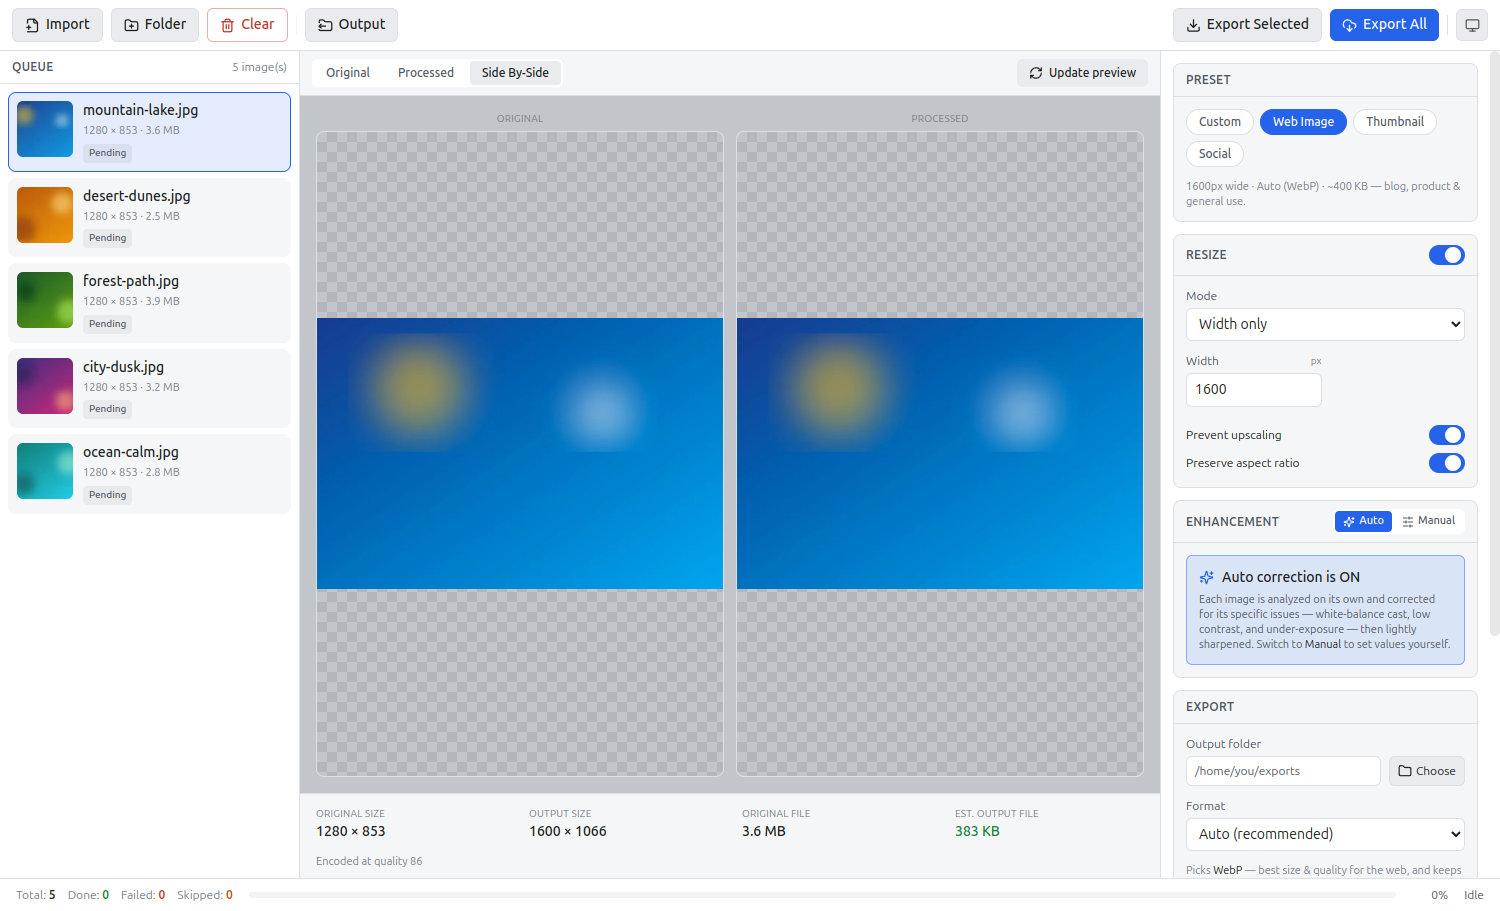
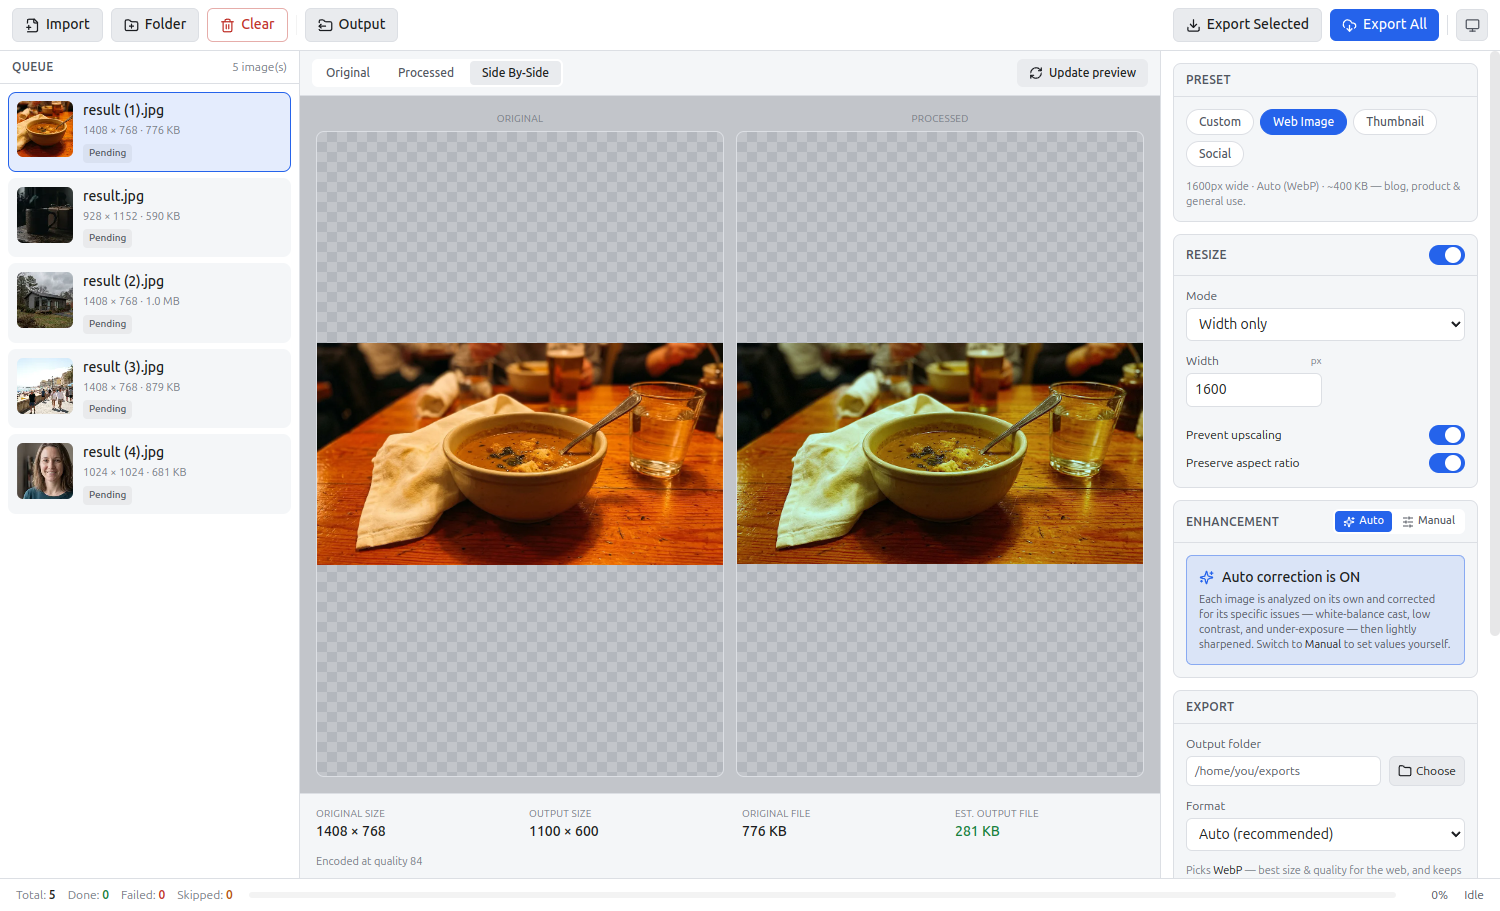
docs(site): real-photo screenshots + auto-enhance before/after; OS-detected primary download (no 'recommended'); clearer Apple Silicon/Intel; promoted unsigned-app notice; better Tux penguin

diff --git a/docs/index.html b/docs/index.html
@@ -457,23 +457,34 @@
         gap: 12px;
         transition: border-color 0.18s ease;
       }
-      .dl-card.rec {
-        border-color: rgba(59, 122, 240, 0.55);
-        box-shadow: 0 0 0 1px rgba(59, 122, 240, 0.25);
+      .dl-card.sel {
+        border-color: var(--accent);
+        box-shadow: 0 0 0 1px var(--accent);
       }
       .dl-card .os {
         color: var(--fg);
+        height: 34px;
+        display: grid;
+        place-items: center;
       }
       .dl-card h3 {
-        font-size: 17px;
+        font-size: 18px;
         font-family: 'Hanken Grotesk', sans-serif;
         font-weight: 700;
+      }
+      .dl-card .variant {
+        font-size: 13px;
+        font-weight: 700;
+        color: var(--fg);
+        background: var(--panel-2);
+        border: 1px solid var(--line);
+        padding: 3px 11px;
+        border-radius: 100px;
       }
       .dl-card .file {
         font-size: 12px;
         color: var(--subtle);
-        word-break: break-all;
-        min-height: 30px;
+        min-height: 16px;
       }
       .dl-card a.dlbtn {
         margin-top: auto;
@@ -482,24 +493,113 @@
         font-size: 15px;
         padding: 11px 16px;
       }
-      .rec-tag {
+
+      /* Before / after */
+      .ba-list {
+        display: flex;
+        flex-direction: column;
+        gap: 20px;
+      }
+      .ba {
+        margin: 0;
+        border: 1px solid var(--line);
+        border-radius: var(--radius);
+        overflow: hidden;
+        background: var(--panel);
+      }
+      .ba-pair {
+        display: grid;
+        grid-template-columns: 1fr 1fr;
+        gap: 2px;
+        background: var(--line);
+      }
+      .ba-item {
+        position: relative;
+        background: var(--panel-2);
+      }
+      .ba-item img {
+        width: 100%;
+        aspect-ratio: 16 / 10;
+        object-fit: cover;
+        display: block;
+      }
+      .ba-tag {
+        position: absolute;
+        top: 10px;
+        left: 10px;
         font-size: 11px;
         font-weight: 700;
         letter-spacing: 0.05em;
         text-transform: uppercase;
-        color: var(--accent);
+        background: rgba(0, 0, 0, 0.62);
+        color: #fff;
+        padding: 4px 9px;
+        border-radius: 6px;
       }
-      .dl-note {
+      .ba-tag.is-after {
+        background: var(--accent);
+      }
+      .ba figcaption {
+        padding: 13px 18px;
+        color: var(--muted);
+        font-size: 14px;
+      }
+      @media (max-width: 560px) {
+        .ba-pair {
+          grid-template-columns: 1fr;
+        }
+        .ba-item img {
+          aspect-ratio: 16 / 9;
+        }
+      }
+
+      /* Unsigned-app notice (promoted) */
+      .notice {
+        display: flex;
+        gap: 16px;
+        margin-top: 30px;
+        padding: 22px 24px;
+        background: var(--panel);
+        border: 1px solid var(--line);
+        border-left: 4px solid #e0a13a;
+        border-radius: var(--radius);
+      }
+      .notice-ic {
+        flex-shrink: 0;
+        color: #e0a13a;
+      }
+      .notice h3 {
+        font-size: 17px;
+        font-family: 'Hanken Grotesk', sans-serif;
+        font-weight: 700;
+      }
+      .notice p {
+        color: var(--muted);
+        font-size: 15px;
+        margin: 6px 0 12px;
+      }
+      .notice ul {
+        margin: 0;
+        padding-left: 18px;
+        color: var(--muted);
+        font-size: 14.5px;
+        line-height: 1.7;
+      }
+      .notice ul b {
+        color: var(--fg);
+      }
+      .notice code {
+        background: var(--panel-2);
+        border: 1px solid var(--line-2);
+        padding: 1px 6px;
+        border-radius: 5px;
+        font-size: 13px;
+      }
+      .dl-foot {
         text-align: center;
         color: var(--subtle);
         font-size: 14px;
-        margin-top: 26px;
-      }
-      .dl-note code {
-        background: var(--panel-2);
-        padding: 2px 7px;
-        border-radius: 6px;
-        font-size: 13px;
+        margin-top: 20px;
       }
 
       /* Footer */
@@ -683,8 +783,45 @@
         </div>
       </section>
 
+      <!-- BEFORE / AFTER -->
+      <section id="examples">
+        <div class="wrap">
+          <div class="sec-head reveal">
+            <span class="kicker">Real results</span>
+            <h2>Auto-enhance, image by image</h2>
+            <p>
+              ImagePrep analyzes each photo and corrects its own flaws — white balance, contrast,
+              and exposure. Left is the original; right is ImagePrep's automatic output.
+            </p>
+          </div>
+          <div class="ba-list">
+            <figure class="ba reveal">
+              <div class="ba-pair">
+                <div class="ba-item"><span class="ba-tag">Before</span><img src="assets/ba-1-before.webp" alt="Original photo with a warm cast" loading="lazy" /></div>
+                <div class="ba-item"><span class="ba-tag is-after">After</span><img src="assets/ba-1-after.webp" alt="ImagePrep auto-enhanced" loading="lazy" /></div>
+              </div>
+              <figcaption>Warm tungsten cast neutralized, with contrast and detail recovered.</figcaption>
+            </figure>
+            <figure class="ba reveal">
+              <div class="ba-pair">
+                <div class="ba-item"><span class="ba-tag">Before</span><img src="assets/ba-2-before.webp" alt="Dark original photo" loading="lazy" /></div>
+                <div class="ba-item"><span class="ba-tag is-after">After</span><img src="assets/ba-2-after.webp" alt="ImagePrep auto-enhanced" loading="lazy" /></div>
+              </div>
+              <figcaption>Under-exposed shot brightened and balanced — shadows opened up.</figcaption>
+            </figure>
+            <figure class="ba reveal">
+              <div class="ba-pair">
+                <div class="ba-item"><span class="ba-tag">Before</span><img src="assets/ba-3-before.webp" alt="Flat original photo" loading="lazy" /></div>
+                <div class="ba-item"><span class="ba-tag is-after">After</span><img src="assets/ba-3-after.webp" alt="ImagePrep auto-enhanced" loading="lazy" /></div>
+              </div>
+              <figcaption>Flat lighting gets cleaner contrast and truer colour.</figcaption>
+            </figure>
+          </div>
+        </div>
+      </section>
+
       <!-- SHOWCASE -->
-      <section>
+      <section style="background: var(--bg-2)">
         <div class="wrap">
           <div class="sec-head reveal">
             <span class="kicker">Looks great, day or night</span>
@@ -705,48 +842,74 @@
       </section>
 
       <!-- DOWNLOAD -->
-      <section id="download" style="background: var(--bg-2)">
+      <section id="download">
         <div class="wrap">
           <div class="sec-head reveal">
             <span class="kicker">Get the app</span>
             <h2>Download <span id="dl-version"></span></h2>
-            <p>Free and open source. Pick your platform — installers are built automatically for every release.</p>
+            <p>Free and open source. Installers are built automatically for every release.</p>
           </div>
           <div class="dl reveal">
             <div class="dl-card" data-os="windows">
-              <span class="rec-tag" style="visibility: hidden">Recommended</span>
               <div class="os"><svg width="30" height="30" viewBox="0 0 24 24" fill="currentColor"><path d="M3 5.5L10.5 4.4v7.1H3V5.5zM3 18.5V12.5h7.5v7.1L3 18.5zM11.5 4.2L21 3v8.5h-9.5V4.2zM11.5 12.5H21V21l-9.5-1.3v-7.2z"/></svg></div>
               <h3>Windows</h3>
-              <div class="file" data-file>NSIS installer (x64)</div>
-              <a class="btn btn-primary dlbtn" data-dl="win" href="https://github.com/gediminasurvila/image-prep-electron/releases/latest">Download .exe</a>
+              <span class="variant">10 / 11 · 64-bit</span>
+              <div class="file">.exe installer</div>
+              <a class="btn btn-ghost dlbtn" data-dl="win" href="https://github.com/gediminasurvila/image-prep-electron/releases/latest">Download</a>
             </div>
             <div class="dl-card" data-os="mac-arm">
-              <span class="rec-tag" style="visibility: hidden">Recommended</span>
               <div class="os"><svg width="30" height="30" viewBox="0 0 24 24" fill="currentColor"><path d="M16.4 12.7c0-2.3 1.9-3.4 2-3.5-1.1-1.6-2.8-1.8-3.4-1.8-1.5-.15-2.8.85-3.5.85-.72 0-1.83-.83-3-.81-1.55.02-2.98.9-3.78 2.29-1.6 2.78-.41 6.9 1.15 9.16.76 1.1 1.67 2.34 2.86 2.3 1.15-.05 1.58-.74 2.97-.74 1.38 0 1.77.74 2.98.72 1.23-.02 2.01-1.12 2.76-2.23.87-1.28 1.23-2.52 1.25-2.58-.03-.01-2.4-.92-2.42-3.63zM14.1 5.6c.64-.78 1.07-1.85.95-2.93-.92.04-2.04.61-2.7 1.39-.59.69-1.11 1.79-.97 2.84 1.03.08 2.08-.52 2.72-1.3z"/></svg></div>
               <h3>macOS</h3>
-              <div class="file" data-file>Apple Silicon (.dmg)</div>
-              <a class="btn btn-primary dlbtn" data-dl="mac-arm" href="https://github.com/gediminasurvila/image-prep-electron/releases/latest">Download arm64</a>
+              <span class="variant">Apple Silicon</span>
+              <div class="file">M1 – M4 · .dmg</div>
+              <a class="btn btn-ghost dlbtn" data-dl="mac-arm" href="https://github.com/gediminasurvila/image-prep-electron/releases/latest">Download</a>
             </div>
             <div class="dl-card" data-os="mac-intel">
-              <span class="rec-tag" style="visibility: hidden">Recommended</span>
               <div class="os"><svg width="30" height="30" viewBox="0 0 24 24" fill="currentColor"><path d="M16.4 12.7c0-2.3 1.9-3.4 2-3.5-1.1-1.6-2.8-1.8-3.4-1.8-1.5-.15-2.8.85-3.5.85-.72 0-1.83-.83-3-.81-1.55.02-2.98.9-3.78 2.29-1.6 2.78-.41 6.9 1.15 9.16.76 1.1 1.67 2.34 2.86 2.3 1.15-.05 1.58-.74 2.97-.74 1.38 0 1.77.74 2.98.72 1.23-.02 2.01-1.12 2.76-2.23.87-1.28 1.23-2.52 1.25-2.58-.03-.01-2.4-.92-2.42-3.63zM14.1 5.6c.64-.78 1.07-1.85.95-2.93-.92.04-2.04.61-2.7 1.39-.59.69-1.11 1.79-.97 2.84 1.03.08 2.08-.52 2.72-1.3z"/></svg></div>
               <h3>macOS</h3>
-              <div class="file" data-file>Intel (.dmg)</div>
-              <a class="btn btn-primary dlbtn" data-dl="mac-intel" href="https://github.com/gediminasurvila/image-prep-electron/releases/latest">Download x64</a>
+              <span class="variant">Intel</span>
+              <div class="file">2020 &amp; earlier · .dmg</div>
+              <a class="btn btn-ghost dlbtn" data-dl="mac-intel" href="https://github.com/gediminasurvila/image-prep-electron/releases/latest">Download</a>
             </div>
             <div class="dl-card" data-os="linux">
-              <span class="rec-tag" style="visibility: hidden">Recommended</span>
-              <div class="os"><svg width="30" height="30" viewBox="0 0 24 24" fill="currentColor"><path d="M12 2c-2 0-3.2 1.7-3.2 3.9 0 1.4.3 2.1.3 3.1 0 1-1 1.9-1.8 3.3-.8 1.4-1.8 2.9-1.8 4.6 0 .9.4 1.6 1 2-.1.5 0 1.1.4 1.5.6.6 1.8.8 3 .8s2-.4 2.5-.9c.5.5 1.4.9 2.5.9 1.2 0 2.4-.2 3-.8.4-.4.5-1 .4-1.5.6-.4 1-1.1 1-2 0-1.7-1-3.2-1.8-4.6-.8-1.4-1.8-2.3-1.8-3.3 0-1 .3-1.7.3-3.1C15.2 3.7 14 2 12 2zm-1.3 4.2c.4 0 .7.4.7.9s-.3.9-.7.9-.7-.4-.7-.9.3-.9.7-.9zm2.6 0c.4 0 .7.4.7.9s-.3.9-.7.9-.7-.4-.7-.9.3-.9.7-.9z"/></svg></div>
+              <div class="os">
+                <svg width="32" height="32" viewBox="0 0 48 48" fill="none">
+                  <path d="M24 4c-6.2 0-9.7 4.8-9.7 11.2 0 3.6.6 5.2-1.1 8.3-1.5 2.7-4.4 5.2-4.4 8.7 0 2.8 2.4 4.1 4.9 4.1 1.6 0 3-.7 3.9-2 1 2.2 3.7 3.5 7.4 3.5s6.4-1.3 7.4-3.5c.9 1.3 2.3 2 3.9 2 2.5 0 4.9-1.3 4.9-4.1 0-3.5-2.9-6-4.4-8.7-1.7-3.1-1.1-4.7-1.1-8.3C35.6 8.8 32.1 4 24 4z" fill="#16181c"/>
+                  <ellipse cx="24" cy="33.5" rx="8.2" ry="9.2" fill="#f5f5f2"/>
+                  <ellipse cx="20.4" cy="16.2" rx="3" ry="4" fill="#fff"/>
+                  <ellipse cx="27.6" cy="16.2" rx="3" ry="4" fill="#fff"/>
+                  <circle cx="21" cy="17.6" r="1.5" fill="#16181c"/>
+                  <circle cx="27" cy="17.6" r="1.5" fill="#16181c"/>
+                  <path d="M21 19.6h6l-3 4.2z" fill="#f6a821"/>
+                  <path d="M16.8 41c-2.6 1.7-5.2 1.6-5.2 3.2 0 1 1.8 1.5 4.5 1.5 2.4 0 4-.8 4.3-2.4z" fill="#f6a821"/>
+                  <path d="M31.2 41c2.6 1.7 5.2 1.6 5.2 3.2 0 1-1.8 1.5-4.5 1.5-2.4 0-4-.8-4.3-2.4z" fill="#f6a821"/>
+                </svg>
+              </div>
               <h3>Linux</h3>
-              <div class="file" data-file>AppImage (x86_64)</div>
-              <a class="btn btn-primary dlbtn" data-dl="linux" href="https://github.com/gediminasurvila/image-prep-electron/releases/latest">Download .AppImage</a>
+              <span class="variant">x86-64</span>
+              <div class="file">.AppImage</div>
+              <a class="btn btn-ghost dlbtn" data-dl="linux" href="https://github.com/gediminasurvila/image-prep-electron/releases/latest">Download</a>
             </div>
           </div>
-          <p class="dl-note">
-            Builds are unsigned, so your OS may warn on first launch — on macOS right-click → Open;
-            on Windows choose <code>More info → Run anyway</code>; on Linux <code>chmod +x</code> then run.
-            See all versions on the
-            <a class="accent" href="https://github.com/gediminasurvila/image-prep-electron/releases" target="_blank" rel="noopener">releases page</a>.
+
+          <div class="notice reveal">
+            <div class="notice-ic">
+              <svg width="26" height="26" viewBox="0 0 24 24" fill="none" stroke="currentColor" stroke-width="2" stroke-linecap="round" stroke-linejoin="round"><path d="M12 3l9 16H3z"/><line x1="12" y1="10" x2="12" y2="14"/><circle cx="12" cy="17" r="0.6" fill="currentColor"/></svg>
+            </div>
+            <div>
+              <h3>Heads up: first launch needs one extra click</h3>
+              <p>The apps aren't code-signed yet, so your operating system shows a one-time security prompt. It's expected and safe — here's how to get past it:</p>
+              <ul>
+                <li><b>Windows:</b> on the blue SmartScreen prompt, click <code>More info</code> → <code>Run anyway</code>.</li>
+                <li><b>macOS:</b> right-click (or Control-click) the app → <code>Open</code> → <code>Open</code>. If it's still blocked, run <code>xattr -dr com.apple.quarantine /Applications/ImagePrep.app</code>.</li>
+                <li><b>Linux:</b> make the file executable — <code>chmod +x ImagePrep-*.AppImage</code> — then double-click or run it.</li>
+              </ul>
+            </div>
+          </div>
+
+          <p class="dl-foot">
+            Looking for older versions? See the
+            <a class="accent" href="https://github.com/gediminasurvila/image-prep-electron/releases" target="_blank" rel="noopener">full releases page</a>.
           </p>
         </div>
       </section>
@@ -774,7 +937,7 @@
       );
       document.querySelectorAll('.reveal').forEach((el) => io.observe(el));
 
-      // OS detection -> highlight recommended download
+      // OS detection -> make the visitor's platform the primary download.
       (function detectOS() {
         const ua = navigator.userAgent;
         let key = null;
@@ -784,9 +947,12 @@
         if (!key) return;
         const card = document.querySelector(`.dl-card[data-os="${key}"]`);
         if (card) {
-          card.classList.add('rec');
-          const tag = card.querySelector('.rec-tag');
-          if (tag) tag.style.visibility = 'visible';
+          card.classList.add('sel');
+          const btn = card.querySelector('.dlbtn');
+          if (btn) {
+            btn.classList.remove('btn-ghost');
+            btn.classList.add('btn-primary');
+          }
         }
         const label = { windows: 'Windows', 'mac-arm': 'macOS', linux: 'Linux' }[key];
         const hl = document.getElementById('hero-download-label');
@@ -817,10 +983,10 @@
             const btn = document.querySelector(`a[data-dl="${key}"]`);
             if (u && btn) btn.href = u;
           });
-          // Hero button -> recommended OS direct link if known, else first asset
-          const recKey = document.querySelector('.dl-card.rec')?.dataset.os;
+          // Hero button -> detected OS direct link when known.
+          const selKey = document.querySelector('.dl-card.sel')?.dataset.os;
           const heroMap = { windows: 'win', 'mac-arm': 'mac-arm', linux: 'linux' };
-          const heroUrl = recKey && heroMap[recKey] ? url(map[heroMap[recKey]]) : null;
+          const heroUrl = selKey && heroMap[selKey] ? url(map[heroMap[selKey]]) : null;
           if (heroUrl) document.getElementById('hero-download').href = heroUrl;
         })
         .catch(() => {